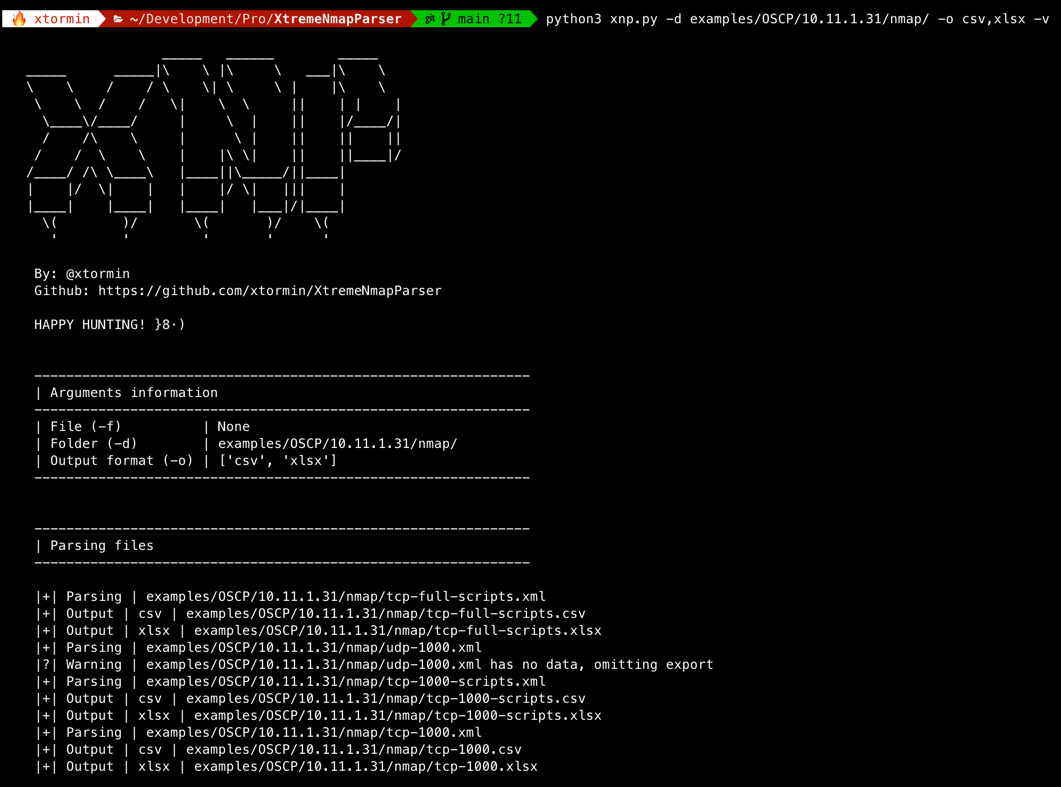
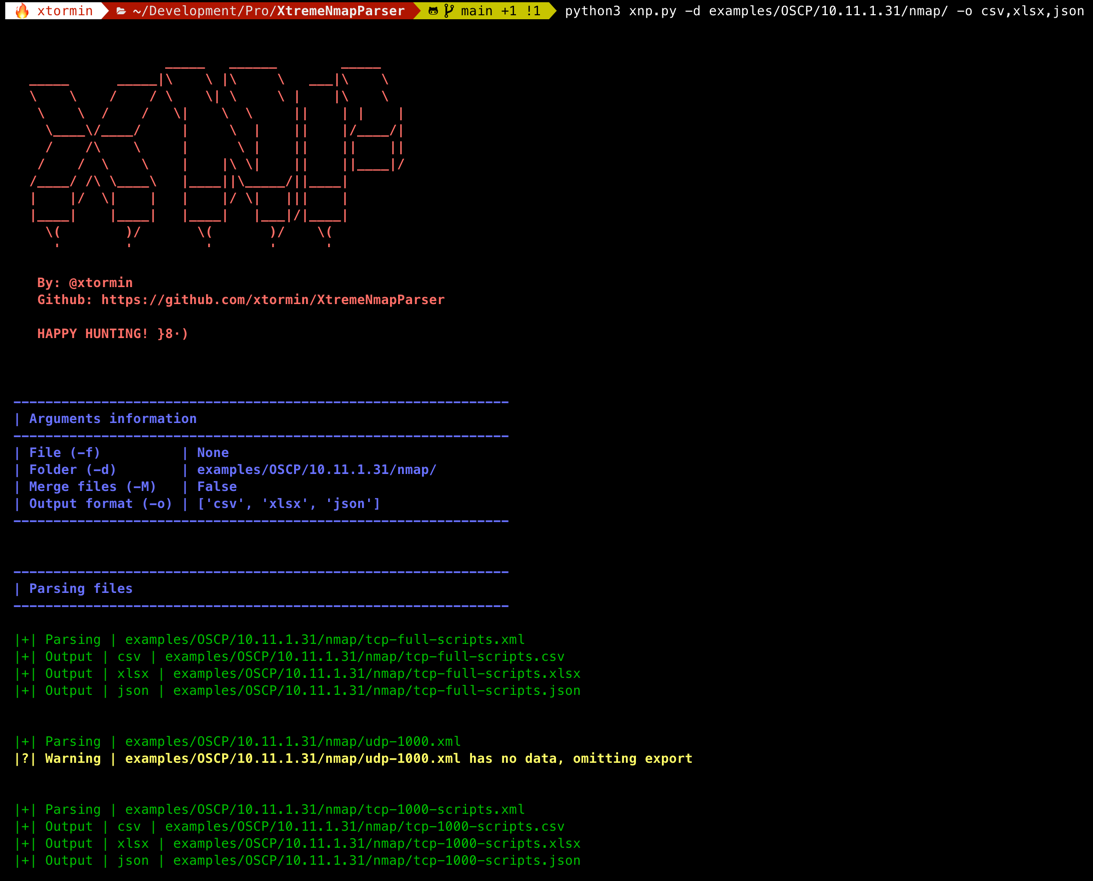
Update with new features

diff --git a/README.md b/README.md
@@ -1,43 +1,60 @@
 # XNP - Xtreme Nmap Parser
-This program extracts the most pertinent information from an **XML file generated by a nmap scan**, then converts it into **CSV or XLSX format**.
+XML Nmap Parser (XNP) is a Python-based utility designed to parse XML files generated by Nmap, a powerful network scanning tool. XNP allows you to convert these XML files into other useful formats, such as CSV and XLSX.
 
-This is **particularly useful when tasked with analyzing a large number of hosts** as it enables quicker, more efficient filtering and testing.
+<!-- TOC -->
+* [XNP - Xtreme Nmap Parser](#xnp---xtreme-nmap-parser)
+  * [Features](#features)
+  * [Key Benefits](#key-benefits)
+* [Install](#install)
+* [Usage](#usage)
+  * [Single XML file](#single-xml-file)
+  * [Multiple XML files](#multiple-xml-files)
+    * [Each XML File to XLSX/CSV/JSON](#each-xml-file-to-xlsxcsvjson)
+    * [Merging XML files](#merging-xml-files)
+* [Output example](#output-example)
+* [Configuration](#configuration)
+* [License](#license)
+<!-- TOC -->
 
-For instance, you can:
+## Features
+- Parse Nmap XML files.
+- Export parsed data to CSV or XLSX formats.
+- Handle a single file or a directory of XML files.
+- Configurable output formats and other settings through a YAML configuration file.
 
-- Filter based on open ports or services.
-- Exclude ports that appear to be open, but are irrelevant for testing.
-- Maintain a record of what has been analyzed.
-- If a vulnerable service is detected, rapidly search for other potentially vulnerable hosts.
-- Copy and paste data of vulnerable hosts, filtered by service version.
+## Key Benefits
 
-## Install
+- **Filtering Options:** Filter based on specific services or open ports to concentrate on targets of interest while disregarding irrelevant data.
+- **Pentest Records:** Keeping track of analyzed data can be beneficial to avoid unnecessary re-scanning, monitor progress over time, and provide an audit trail for review purposes.
+- **Network-Wide Vulnerability Detection:** If a vulnerable service is detected on one host, XNP can be used to swiftly search for other hosts in the network potentially running the same service, assisting in identifying vulnerabilities across the network.
+- **Easy Data Export:** The ability to effortlessly copy and paste data about vulnerable hosts, filtered by service version, can be a practical feature. It simplifies the documentation of findings, data sharing with colleagues, and inputting data into other tools or reports.
 
+In summary, XNP is a tool designed to simplify the life of a pentester. By automating the processing and analysis of Nmap output, XNP allows you to focus on the most crucial part of your job: interpreting the results and planning better strategies }8)
+
+
+# Install
+
+1. Clone this repository: 
 ```
 git clone https://github.com/xtormin/XtremeNmapParser.git
 ```
-
-### Python requirements
-
+2. Navigate to the XNP directory:
 ```
-python3 -m pip install -r setup/requirements.txt
+cd XtremeNmapParser
 ```
-
-### Virtual environment
-
+3. Install the necessary Python packages: 
 ```
-sudo apt install python3-venv
+pip install -r requirements.txt
 ```
-
-To create a python virtual environment:
-
+or
 ```
 python3 -m venv venv
 source venv/bin/activate
 python3 -m pip install -r setup/requirements.txt
 ```
+4. Run XNP.
 
-## Execution
+# Usage
 
 Example of nmap scan:
 
@@ -45,39 +62,39 @@ Example of nmap scan:
 nmap -T4 -Pn -open --script=default,version,vuln -A -p- -oA nmap/tcp-full-scripts 10.10.1.9
 ```
 
-### Single XML file
+## Single XML file
 
-Using the tcp-full-scripts.xml file created, execute this tool:
+To convert the XML file, you can use the following command:
 
 ```
 python3 xnp.py -f <nmap XML file> -o <list with output formats>
-python3 xnp.py -f nmap/tcp-full-scripts.xml -o csv,xlsx
+python3 xnp.py -f nmap/tcp-full-scripts.xml -o csv,xlsx,json
 ```
 
-![single_scan.png](utils%2Fimages%2Fsingle_scan.png)
+![single_scan.png](resources%2Fimages%2Fsingle_scan.png)
 
-### Folder with multiple XML files
+| Argument | Description                                                                                                                                                                                                  |
+|----------|--------------------------------------------------------------------------------------------------------------------------------------------------------------------------------------------------------------|
+| **-f**   | The -f flag is used to specify the input file to the XNP script. In this case, nmap/tcp-full-scripts.xml is the Nmap XML file that you want to parse.                                                        |
+| **-o**   | The -o flag is used to specify the output format(s) for the parsed data. In this case, you are asking XNP to export the parsed data in both CSV (Comma-Separated Values) and XLSX (Microsoft Excel) formats. |
 
-#### Converting XML Files to XLSX/CSV
+## Multiple XML files
 
-Each XML file in the specified folder is processed and converted into a DataFrame. 
+### Each XML File to XLSX/CSV/JSON
 
 The following command will produce a CSV/XLSX file for each XML file in the specified folder. The CSV/XLSX will be saved in the same location as the original.
-
 
 To convert all XML files in a folder, you can use the following command:
 
 ```
 python3 xnp.py -d <folder with nmap XML files> -o <list with output formats>
-python3 xnp.py -d nmap/ -o csv,xlsx
+python3 xnp.py -d nmap/ -o csv,xlsx,json
 ```
 
-![multiple_scans.png](utils%2Fimages%2Fmultiple_scans.png)
+![multiple_scans.png](resources%2Fimages%2Fmultiple_scans.png)
 
 
-#### Merging XML files into a Single XLSX/CSV file
-
-Once each XML file has been converted into a DataFrame, all of the DataFrames can be merged into a single DataFrame.
+### Merging XML files
 
 The following command will produce a single XLSX/CSV file that contains the merged data from all of the XML files in the specified folder.
 
@@ -86,28 +103,20 @@ To merge all nmap XML files and generate a file with the result, you can use the
 1. Default output name "merged_nmap_scan_data":
 ```
 python3 xnp.py -d <folder with nmap XML files> -o <list with output formats> -M
-python3 xnp.py -d nmap/ -o csv,xlsx -M
+python3 xnp.py -d nmap/ -o csv,xlsx,json -M
 ```
+
+![multiple_merged_default.png](resources%2Fimages%2Fmultiple_merged_default.png)
 
 2. Other output name:
 ```
 python3 xnp.py -d <folder with nmap XML files> -o <list with output formats> -M -O <output name>
-python3 xnp.py -d nmap/ -o csv,xlsx -M -O merged_nmap_scan_data
+python3 xnp.py -d nmap/ -o csv,xlsx,json -M -O merged_nmap_scan_data
 ```
 
-![multiple_scans_merged.png](utils%2Fimages%2Fmultiple_scans_merged.png)
+![multiple_merged_outputname.png](resources%2Fimages%2Fmultiple_merged_outputname.png)
 
-Filtering rules are applied to the DataFrame when merging data from multiple XML files. These rules are necessary to remove duplicates and to keep only the most relevant information. The rules are as follows:
-
-1. A column named 'RelevantDuplicate' is added that counts the number of non-null values in the 'Service Name', 'Product', 'Version', and 'Extrainfo' columns for each row.
-
-2. The DataFrame is sorted by 'IP', 'Port', 'State', and 'RelevantDuplicate' (in descending order so that larger counts come first).
-
-3. Duplicates are dropped based on the 'IP' and 'Port' columns, keeping only the first occurrence of each IP-Port pair.
-
-These filtering rules allow for the reduction of data redundancy and the retention of only the most useful and relevant information.
-
-### Output example
+# Output example
 
 You will get the following information:
 
@@ -117,3 +126,11 @@ xtormin.local;10.10.1.9;up;445;tcp;open;microsoft-ds;Windows Server 2016 Standar
 xtormin.local;10.10.1.9;up;1433;tcp;open;ms-sql-s;Microsoft SQL Server 2017;"14.00.1000.00; RTM";
 xtormin.local;10.10.1.9;up;3389;tcp;open;ms-wbt-server;Microsoft Terminal Services;;
 ```
+
+# Configuration
+
+You can change the output formats and other settings through the [config.yaml](config%2Fconfig.yaml)  file.
+
+# License
+
+This project is licensed under the MIT License. See [LICENSE](LICENSE) for more information.
